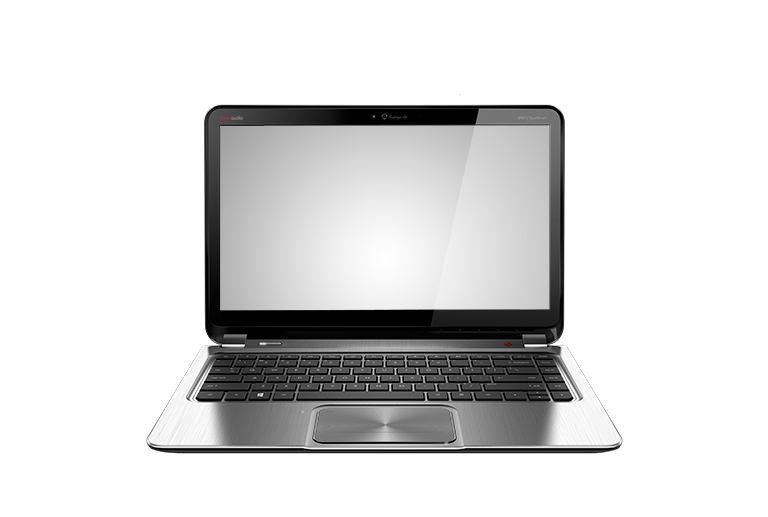
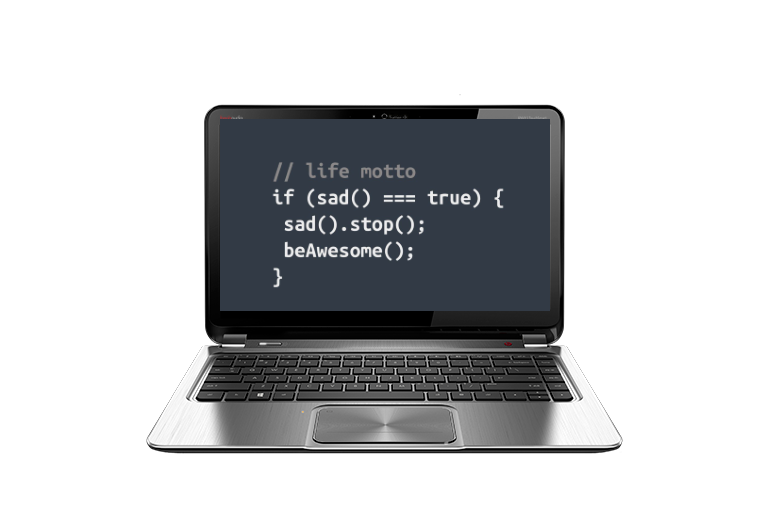
hello world

Changed region(s): [[0.2812, 0.2166, 0.7188, 0.619]]

diff --git a/src/client/styles/styles/_topsection.scss b/src/client/styles/styles/_topsection.scss
@@ -1,4 +1,5 @@
 .top-section {
+    background: transparent url('../src/client/assets/img/top-section/main-bg.jpg') no-repeat center 0;
     display: inline-block;
     height: $full-height;
     position: $posrel;
@@ -7,6 +8,16 @@
     @media screen and (max-width: $mobile) {
         min-height: 490px;
         padding: 0 15px;
+    }
+    .hello-world{
+        background: transparent url('../src/client/assets/img/code/1.png') no-repeat center 0;
+        display:block;
+        height:45px;
+        position: fixed;
+        left:5px;
+        top:3px;
+        width:230px;
+        z-index: 999999;
     }
     h2 {
         margin: 0;
